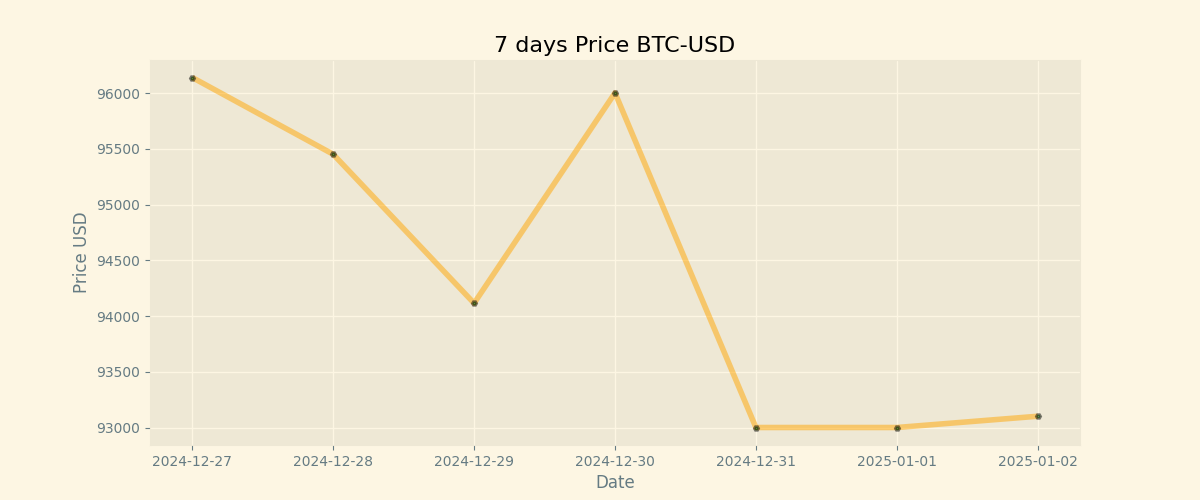
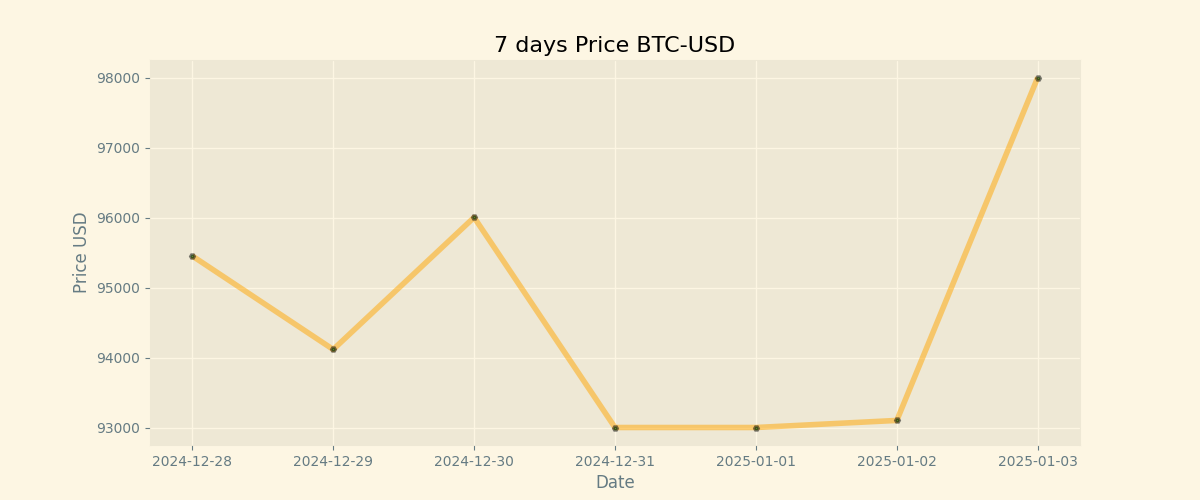
Duty Updates 2025-01-03

diff --git a/README.md b/README.md
@@ -9,8 +9,8 @@
 
 | Currency | Price           |
 | -------- | --------------- |
-| **BTC**  | **$ 93101.01** |
-| **ETH**  | **$ 3330.0** |
+| **BTC**  | **$ 98000.0** |
+| **ETH**  | **$ 3499.99** |
 
 ## BTC chart
 
